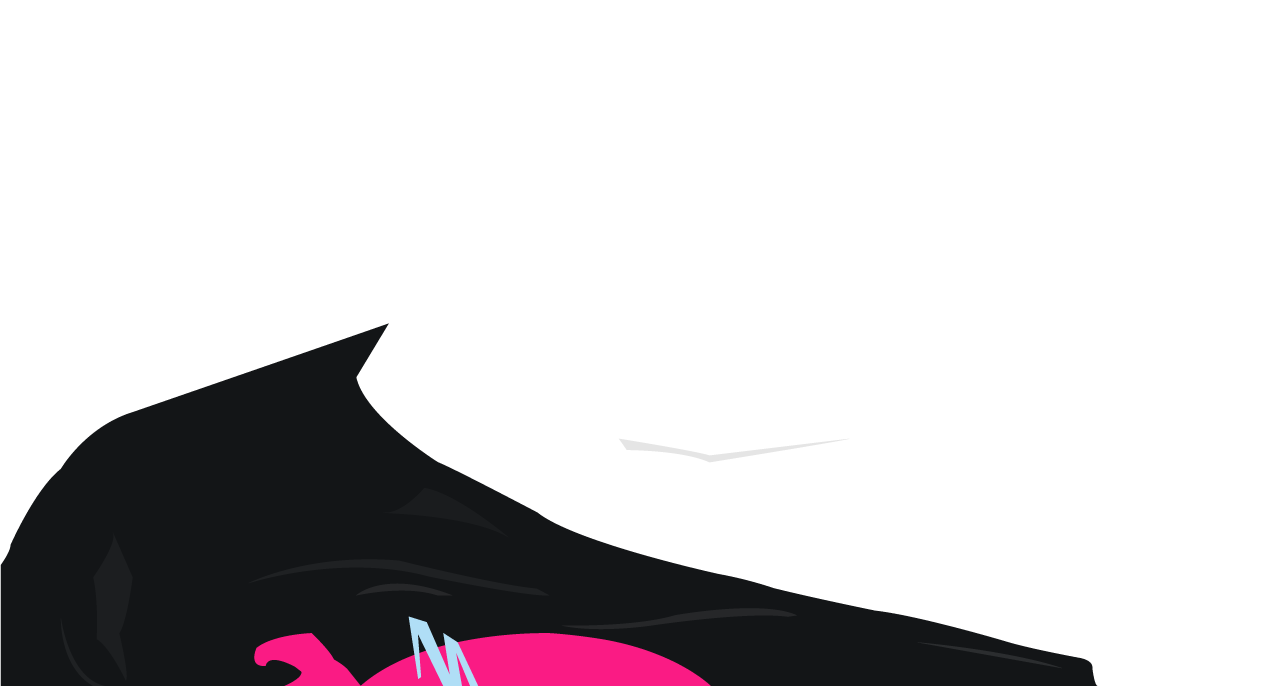
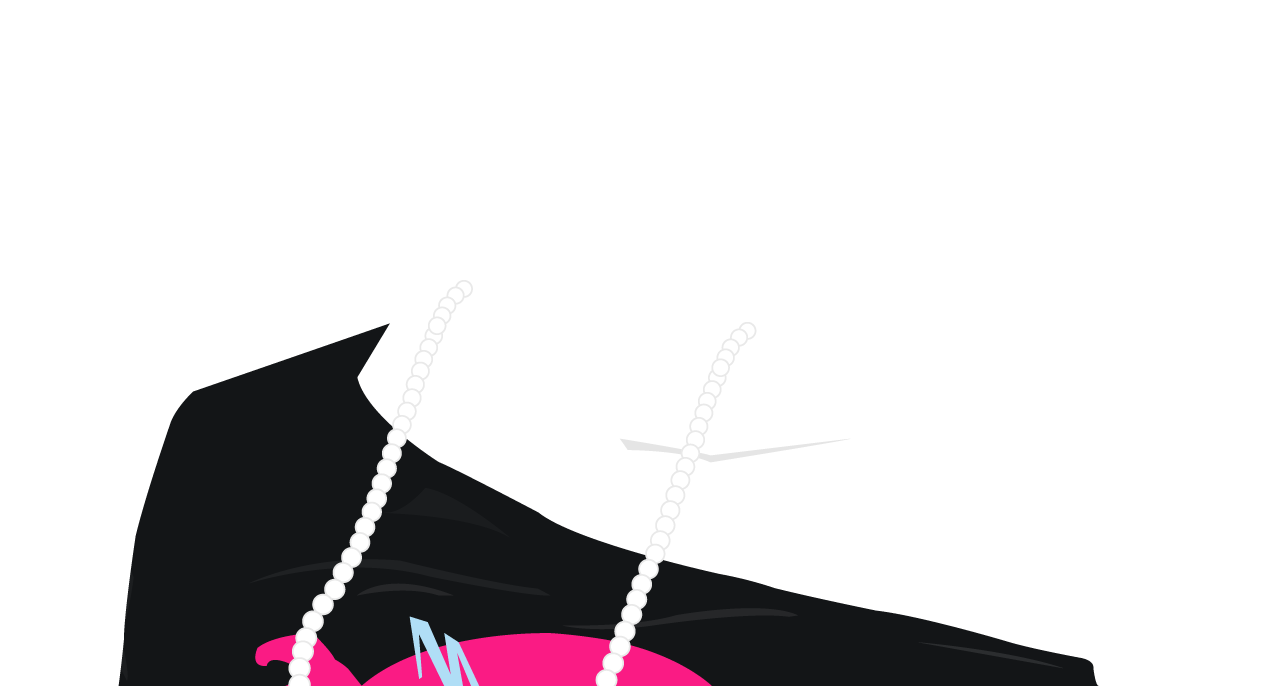
Asset and character creation updates

diff --git a/src/components/character-creator/character-creator.vue b/src/components/character-creator/character-creator.vue
@@ -2,64 +2,87 @@
     <div class="character-creator">
         <h1 v-t="'createCharacter'"></h1>
         <div class="character-creator__wrapper">
-            <form class="character-creator__form"
-                  @submit.prevent="saveCharacter"
-            >
-                <fieldset class="rpg-fieldset">
-                    <div class="input radio">
-                        <label v-t="'sex'" for="sex"></label>
-                        <input type="radio" name="sex" value="M" v-model="sex">
-                        <input type="radio" name="sex" value="F" v-model="sex">
-                    </div>
-                    <div class="input">
-                        <label v-t="'name'" for="name"></label>
-                        <input type="text" name="name" v-model="appearance.name" />
-                    </div>
-                    <template v-if="character">
-                        <div class="input range">
-                            <label v-t="'skin'" for="skin"></label>
-                            <input type="range" name="skin" min="0" :max="maxValues.skin - 1" v-model="skin" />
+            <transition-group name="slide">
+                <form v-if="form === 0"
+                      key="form-1"
+                      class="character-creator__form"
+                      @submit.prevent="goToForm(1)"
+                >
+                    <fieldset class="rpg-fieldset">
+                        <div class="input">
+                            <label v-t="'name'" for="name"></label>
+                            <input ref="nameInput"
+                                   type="text" name="name"
+                                   v-model="appearance.name"
+                                   autocomplete="false"
+                            />
                         </div>
-                        <div class="input range">
-                            <label v-t="'eyes'" for="eyes"></label>
-                            <input type="range" min="0" :max="maxValues.eyes - 1" v-model.number="appearance.eyes" />
-                        </div>
-                        <div class="input range">
-                            <label v-t="'mouth'" for="mouth"></label>
-                            <input type="range" min="0" :max="maxValues.mouth - 1" v-model.number="appearance.mouth" />
-                        </div>
-                        <div class="input range">
-                            <label v-t="'nose'" for="nose"></label>
-                            <input type="range" min="0" :max="maxValues.nose - 1" v-model.number="appearance.nose" />
-                        </div>
-                        <div class="input range">
-                            <label v-t="'hair'" for="hair"></label>
-                            <input type="range" min="0" :max="maxValues.hair - 1" v-model.number="appearance.hair" />
-                        </div>
-                        <div class="input range">
-                            <label v-t="'clothes'" for="clothes"></label>
-                            <input type="range" min="0" :max="maxValues.clothes - 1" v-model.number="appearance.clothes" />
-                        </div>
-                        <div class="input range">
-                            <label v-t="'jewelry'" for="jewelry"></label>
-                            <input type="range" min="0" :max="maxValues.jewelry - 1" v-model.number="appearance.jewelry" />
-                        </div>
-                    </template>
-                    <button v-t="'randomize'"
-                            type="button"
-                            title="$t('randomize')"
-                            class="rpg-button"
-                            @click="randomize"
-                    ></button>
+                    </fieldset>
                     <button
-                        v-t="'done'"
+                        v-t="'thatsMe'"
                         type="submit"
                         title="$t('save')"
-                        class="rpg-button"
+                        class="rpg-button rpg-button--submit"
                         :disabled="!isValid"
                     ></button>
-                </fieldset>
-            </form>
+                </form>
+                <form v-if="form === 1"
+                      key="form-2"
+                      class="character-creator__form"
+                      @submit.prevent="saveCharacter"
+                >
+                    <fieldset class="rpg-fieldset">
+                        <div class="input radio">
+                            <label v-t="'sex'" for="sex"></label>
+                            <input type="radio" name="sex" value="M" v-model="sex">
+                            <input type="radio" name="sex" value="F" v-model="sex">
+                        </div>
+                        <template v-if="character">
+                            <div class="input range">
+                                <label v-t="'skin'" for="skin"></label>
+                                <input type="range" name="skin" min="0" :max="maxValues.skin - 1" v-model="skin" />
+                            </div>
+                            <div class="input range">
+                                <label v-t="'eyes'" for="eyes"></label>
+                                <input type="range" min="0" :max="maxValues.eyes - 1" v-model.number="appearance.eyes" />
+                            </div>
+                            <div class="input range">
+                                <label v-t="'mouth'" for="mouth"></label>
+                                <input type="range" min="0" :max="maxValues.mouth - 1" v-model.number="appearance.mouth" />
+                            </div>
+                            <div class="input range">
+                                <label v-t="'nose'" for="nose"></label>
+                                <input type="range" min="0" :max="maxValues.nose - 1" v-model.number="appearance.nose" />
+                            </div>
+                            <div class="input range">
+                                <label v-t="'hair'" for="hair"></label>
+                                <input type="range" min="0" :max="maxValues.hair - 1" v-model.number="appearance.hair" />
+                            </div>
+                            <div class="input range">
+                                <label v-t="'clothes'" for="clothes"></label>
+                                <input type="range" min="0" :max="maxValues.clothes - 1" v-model.number="appearance.clothes" />
+                            </div>
+                            <div class="input range">
+                                <label v-t="'jewelry'" for="jewelry"></label>
+                                <input type="range" min="0" :max="maxValues.jewelry - 1" v-model.number="appearance.jewelry" />
+                            </div>
+                        </template>
+                        <button v-t="'randomize'"
+                                type="button"
+                                title="$t('randomize')"
+                                class="rpg-button"
+                                @click="randomize"
+                        ></button>
+                    </fieldset>
+                    <button
+                        v-t="'looksGood'"
+                        type="submit"
+                        title="$t('save')"
+                        class="rpg-button rpg-button--submit"
+                        :disabled="!isValid"
+                    ></button>
+                </form>
+            </transition-group>
             <character
                 class="character-creator__preview"
                 :character="character"
@@ -86,6 +109,7 @@ export default {
         Character,
     },
     data: () => ({
+        form: 0,
         character: createCharacter('F', ''),
     }),
     computed: {
@@ -131,6 +155,9 @@ export default {
             }
         }
     },
+    mounted() {
+        this.$refs.nameInput.focus();
+    },
     methods: {
         randomize() {
             const randomized = CharacterFactory.generateAppearance( this.appearance.sex );
@@ -143,9 +170,12 @@ export default {
             this.appearance.jewelry = randomized.jewelry;
             this.appearance.clothes = randomized.clothes;
         },
+        goToForm( index ) {
+            this.form = Math.max( 0, index );
+        },
         saveCharacter() {
             this.$emit( 'input', this.character );
-        }
+        },
     }
 };
 </script>
@@ -157,6 +187,7 @@ export default {
     .character-creator {
         @include window();
         width: 100%;
+        vertical-align: top;
 
         @include large() {
             &__wrapper {
@@ -177,5 +208,20 @@ export default {
                 width: 100%;
             }
         }
+    }
+
+    /* animations */
+
+    .slide-leave-active,
+    .slide-enter-active {
+        transition: 1s;
+    }
+    .slide-enter {
+        opacity: 0;
+        transform: translate(100%, 0);
+    }
+    .slide-leave-to {
+        opacity: 1;
+        transform: translate(-100%, 0);
     }
 </style>

diff --git a/src/renderers/world-renderer.js b/src/renderers/world-renderer.js
@@ -113,8 +113,12 @@ WorldRenderer.prototype.handleRelease = function( pointerX, pointerY ) {
     // determine which tile has been clicked by translating the pointer coordinate
     // local to the current canvas size against the amount of tiles we can display for this size
 
-    const tx = Math.floor( left + ( pointerX / this.canvas.getWidth() )  * this.maxTilesInWidth );
-    const ty = Math.floor( top  + ( pointerY / this.canvas.getHeight() ) * this.maxTilesInHeight );
+    let tx = Math.floor( left + ( pointerX / this.canvas.getWidth() )  * this.maxTilesInWidth );
+    let ty = Math.floor( top  + ( pointerY / this.canvas.getHeight() ) * this.maxTilesInHeight );
+
+    // keep within bounds (necessary when player is at environment edges)
+    tx = Math.max( 0, Math.min( tx, this.canvas.getWidth()  * this.maxTilesInWidth ));
+    ty = Math.max( 0, Math.min( ty, this.canvas.getHeight() * this.maxTilesInHeight ));
 
     const indexOfTile = coordinateToIndex( tx, ty, this._world ); // translate coordinate to 1D list index
     const targetTile  = terrain[ indexOfTile ];
@@ -186,7 +190,8 @@ WorldRenderer.prototype.draw = function( aCanvasContext ) {
 
     // render terrain from cache
 
-    const sourceX     = ( left * tileWidth ), sourceY = ( top * tileHeight );
+    let sourceX       = left * tileWidth;
+    let sourceY       = top * tileHeight;
     const canvasWidth = this.canvas.getWidth(), canvasHeight = this.canvas.getHeight();
 
     // if player is at world edge, stop scrolling terrain

diff --git a/src/components/credits/contributor.vue b/src/components/credits/contributor.vue
@@ -1,12 +1,14 @@
 <template functional>
-    <a
-        :href="props.href"
-        :title="props.title"
-        target="_blank"
-        rel="noopener noreferrer"
-    >
-        "{{ props.title }}" {{ parent.$t('by') }} {{ props.author }}
-    </a>
+    <span>
+        "<a
+            :href="props.href"
+            :title="props.title"
+            target="_blank"
+            rel="noopener noreferrer"
+        >
+            {{ props.title }}
+        </a>" {{ parent.$t('by') }} {{ props.author }}
+    </span>
 </template>
 
 <script>

diff --git a/src/rpg.vue b/src/rpg.vue
@@ -15,7 +15,9 @@
                     @close="handleScreenClose()"
                 />
             </div>
-            <world class="game-renderer" />
+            <world v-if="hasActiveGame"
+                   class="game-renderer"
+            />
             <!-- dialog window used for information messages, alerts and confirmations -->
             <dialog-window v-if="dialog"
                 :type="dialog.type"

diff --git a/src/styles/forms.scss b/src/styles/forms.scss
@@ -19,7 +19,14 @@
         }
 
         input[type=text] {
-            padding: $spacing-small;
+            padding: $spacing-medium;
+            font-size: 14px;
+            border-radius: 7px;
         }
     }
+}
+
+.rpg-button--submit {
+    display: block;
+    margin: $spacing-medium $spacing-large;
 }

diff --git a/src/model/factories/effect-factory.js b/src/model/factories/effect-factory.js
@@ -19,7 +19,6 @@ export default
         if ( typeof commit !== 'function' ) {
             throw new Error ( 'Cannot create an Effect without a commit fn()' );
         }
-        debugger;
         return {
             commit,
             action,

diff --git a/src/styles/_typography.scss b/src/styles/_typography.scss
@@ -41,11 +41,11 @@ p {
 }
 
 a, a:visited {
-    color: $color-1;
+    color: $color-5;
     text-decoration: underline;
 
     &:hover {
-        color: $color-1;
+        color: $color-4;
         text-decoration: none;
     }
 }
